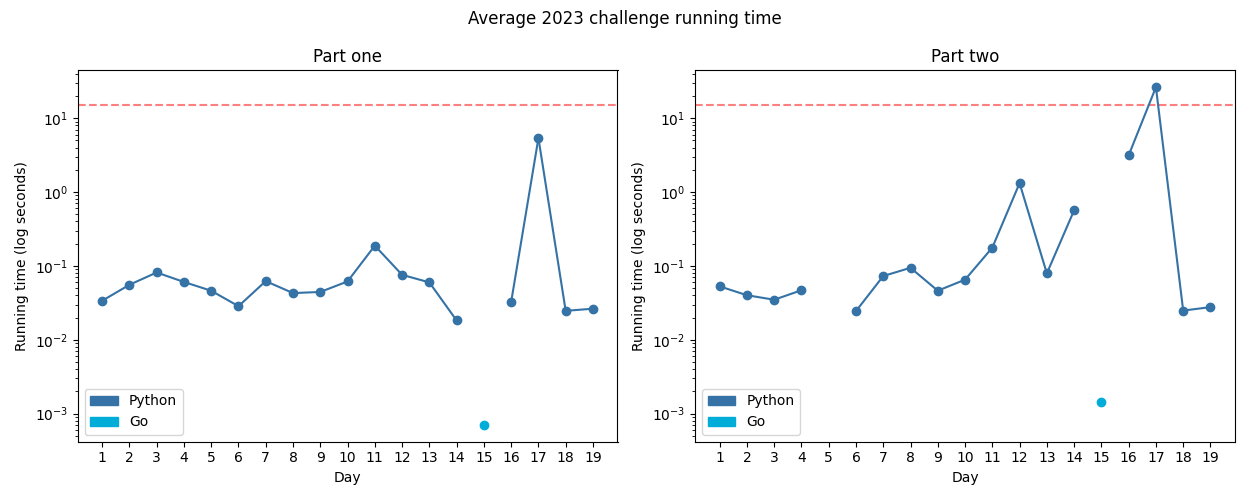
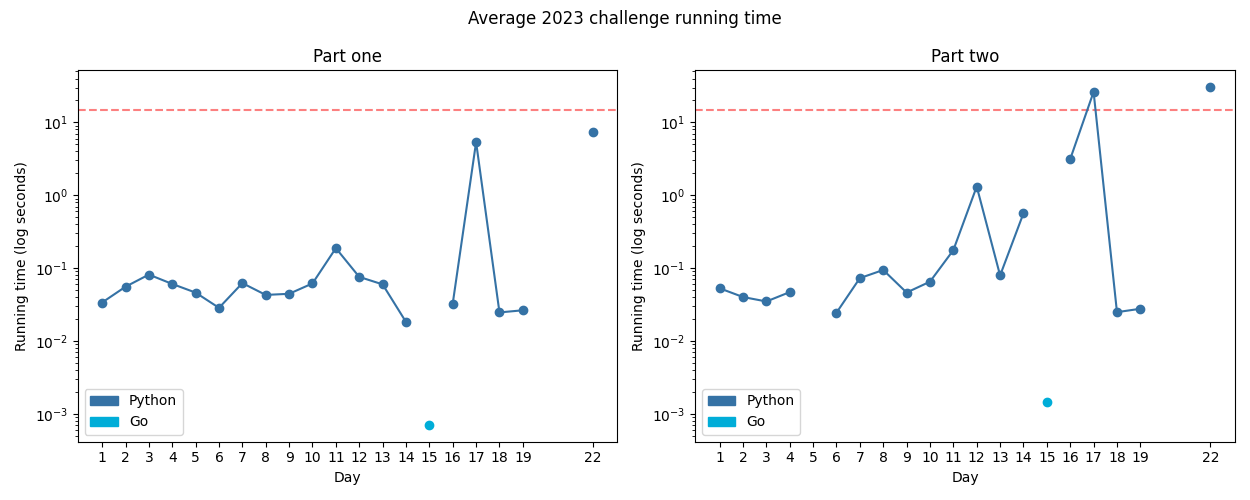
2023.22

diff --git a/challenges/2023/22-sandSlabs/main.py b/challenges/2023/22-sandSlabs/main.py
@@ -1,0 +1,146 @@
+import sys
+import gridutil.coord as cu
+from tqdm import tqdm
+
+
+Brick = tuple[cu.Coordinate3, cu.Coordinate3]
+
+
+def parse(instr: str) -> set[Brick]:
+    # (sorry)
+    return set(
+        sorted(
+            [
+                tuple(
+                    sorted(
+                        map(
+                            lambda x: cu.Coordinate3(*map(int, x.split(","))),
+                            line.split("~"),
+                        )
+                    )
+                )
+                for line in instr.splitlines()
+            ],
+            key=lambda x: x[0].z,
+        )
+    )
+
+
+def are_bricks_overlapping(a: Brick, b: Brick) -> bool:
+    x_overlaps = a[0].x <= b[1].x and b[0].x <= a[1].x
+    y_overlaps = a[0].y <= b[1].y and b[0].y <= a[1].y
+    return x_overlaps and y_overlaps
+
+
+def lower_bricks(
+    bricks: set[Brick], start_at: int = 2, return_early: bool = False
+) -> int:
+    max_z = max([x[1].z for x in bricks]) + 1
+    n = 0
+    for level in range(start_at, max_z if not return_early else start_at + 1):
+        present_below = []
+        on_this_level = []
+
+        for brick in bricks:
+            if brick[1].z == level - 1:
+                present_below.append(brick)
+            elif brick[0].z == level:
+                on_this_level.append(brick)
+
+        for brick in on_this_level:
+            overlaps = False
+            for lower_brick in present_below:
+                if are_bricks_overlapping(brick, lower_brick):
+                    overlaps = True
+                    break
+
+            if not overlaps:
+                n += 1
+                # This is what lowering a brick looks like
+                bricks.remove(brick)
+                bricks.add(
+                    (
+                        cu.Coordinate3(brick[0].x, brick[0].y, brick[0].z - 1),
+                        cu.Coordinate3(brick[1].x, brick[1].y, brick[1].z - 1),
+                    )
+                )
+
+    return n
+
+
+def collapse_tower(bricks: set[Brick]):
+    changed = 1
+    while changed != 0:
+        changed = lower_bricks(bricks)
+
+
+def generate_openscad(bricks: set[Brick]) -> str:
+    """
+    This was for debugging
+    """
+    lines = []
+    for brick in bricks:
+        lines.append(
+            "translate(["
+            + (", ".join(map(str, brick[0])))
+            + "]) { cube(["
+            + (
+                ", ".join(
+                    map(str, map(lambda x: 1 + brick[1][x] - brick[0][x], range(3)))
+                )
+            )
+            + "], center=false); };"
+        )
+    return "\n".join(lines)
+
+
+def one(instr: str):
+    bricks = parse(instr)
+
+    _debug("Building initial state", end="\r")
+
+    collapse_tower(bricks)
+
+    acc = 0
+    for brick in tqdm(bricks, desc="Testing individual bricks", file=sys.stderr, leave=False):
+        bc = bricks.copy()
+        bc.remove(brick)
+        v = lower_bricks(bc, start_at=brick[1].z + 1, return_early=True)
+        if v == 0:
+            acc += 1
+
+    return acc
+
+
+def two(instr: str):
+    bricks = parse(instr)
+
+    _debug("Building initial state", end="\r")
+
+    collapse_tower(bricks)
+
+    acc = 0
+    for brick in tqdm(bricks, desc="Testing individual bricks", file=sys.stderr, leave=False):
+        bc = bricks.copy()
+        bc.remove(brick)
+        v = lower_bricks(bc, start_at=brick[1].z + 1)
+        if v != 0:
+            acc += v
+
+    return acc
+
+
+def _debug(*args, **kwargs):
+    kwargs["file"] = sys.stderr
+    print(*args, **kwargs)
+
+
+if __name__ == "__main__":
+    if len(sys.argv) < 2 or sys.argv[1] not in ["1", "2"]:
+        print("Missing day argument", file=sys.stderr)
+        sys.exit(1)
+    inp = sys.stdin.read().strip()
+    if sys.argv[1] == "1":
+        print(one(inp))
+    else:
+        print(two(inp))

diff --git a/gridutil/coord.py b/gridutil/coord.py
@@ -4,6 +4,7 @@ from numbers import Number
 
 
 Coordinate = namedtuple("Coordinate", ["x", "y"])
+Coordinate3 = namedtuple("Coordinate3", ["x", "y", "z"])
 
 
 def add(a: Coordinate, b: Coordinate) -> Coordinate:

diff --git a/challenges/2023/README.md b/challenges/2023/README.md
@@ -35,3 +35,4 @@ A day denoted with a star means it has a visualisation.
 | 19 - Aplenty | ★ ★ | Python | So maybe I *can* do range maths? |
 | 20 - Pulse Propagation | ☆ ☆ | Python | Too much reading. |
 | 21 - Step Counter | ★ ☆ | Python | ??? |
+| 21 - Sand Slabs | ★ ★ | Python | I maintain that OpenSCAD is the best AoC 3D debugging tool |

diff --git a/challenges/2023/22-sandSlabs/README.md b/challenges/2023/22-sandSlabs/README.md
@@ -1,0 +1,1 @@
+# [Day 22: Sand Slabs](https://adventofcode.com/2023/day/22)
